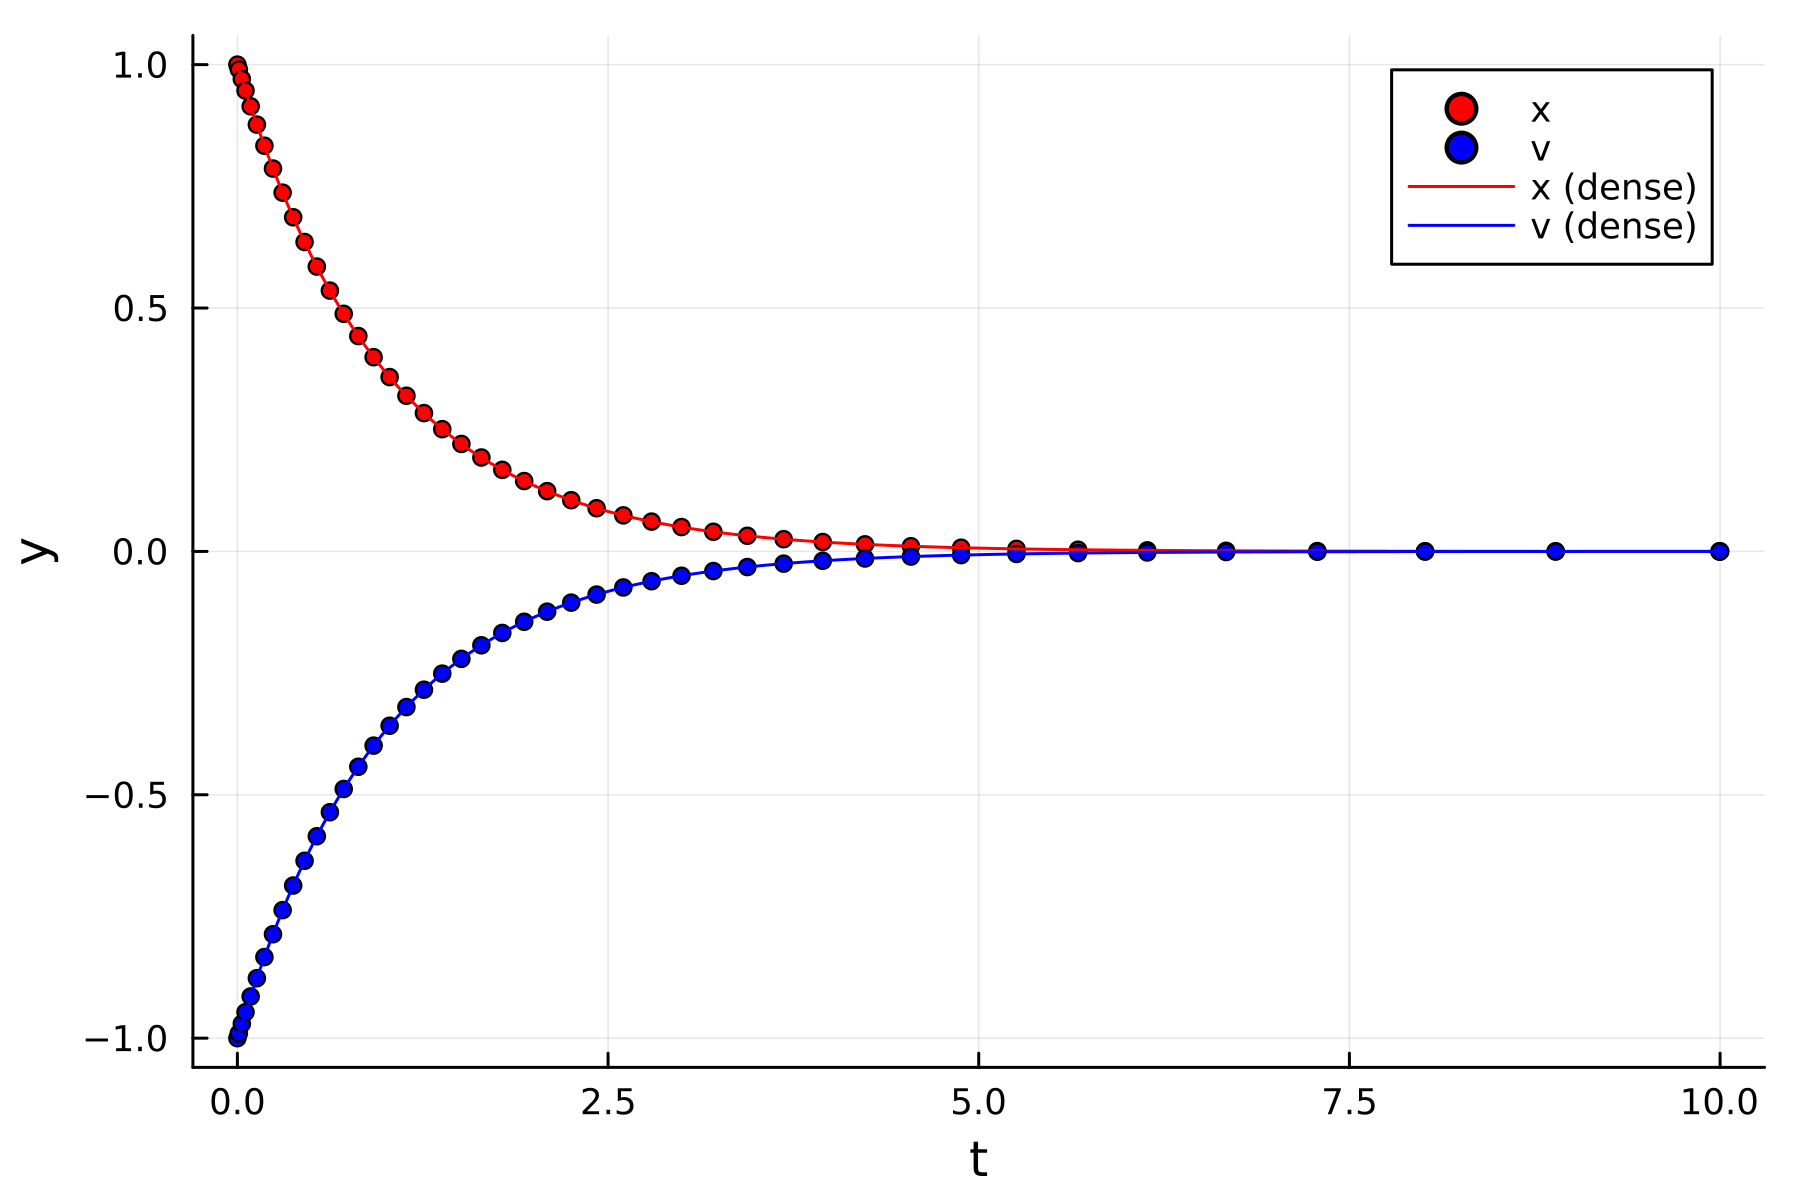
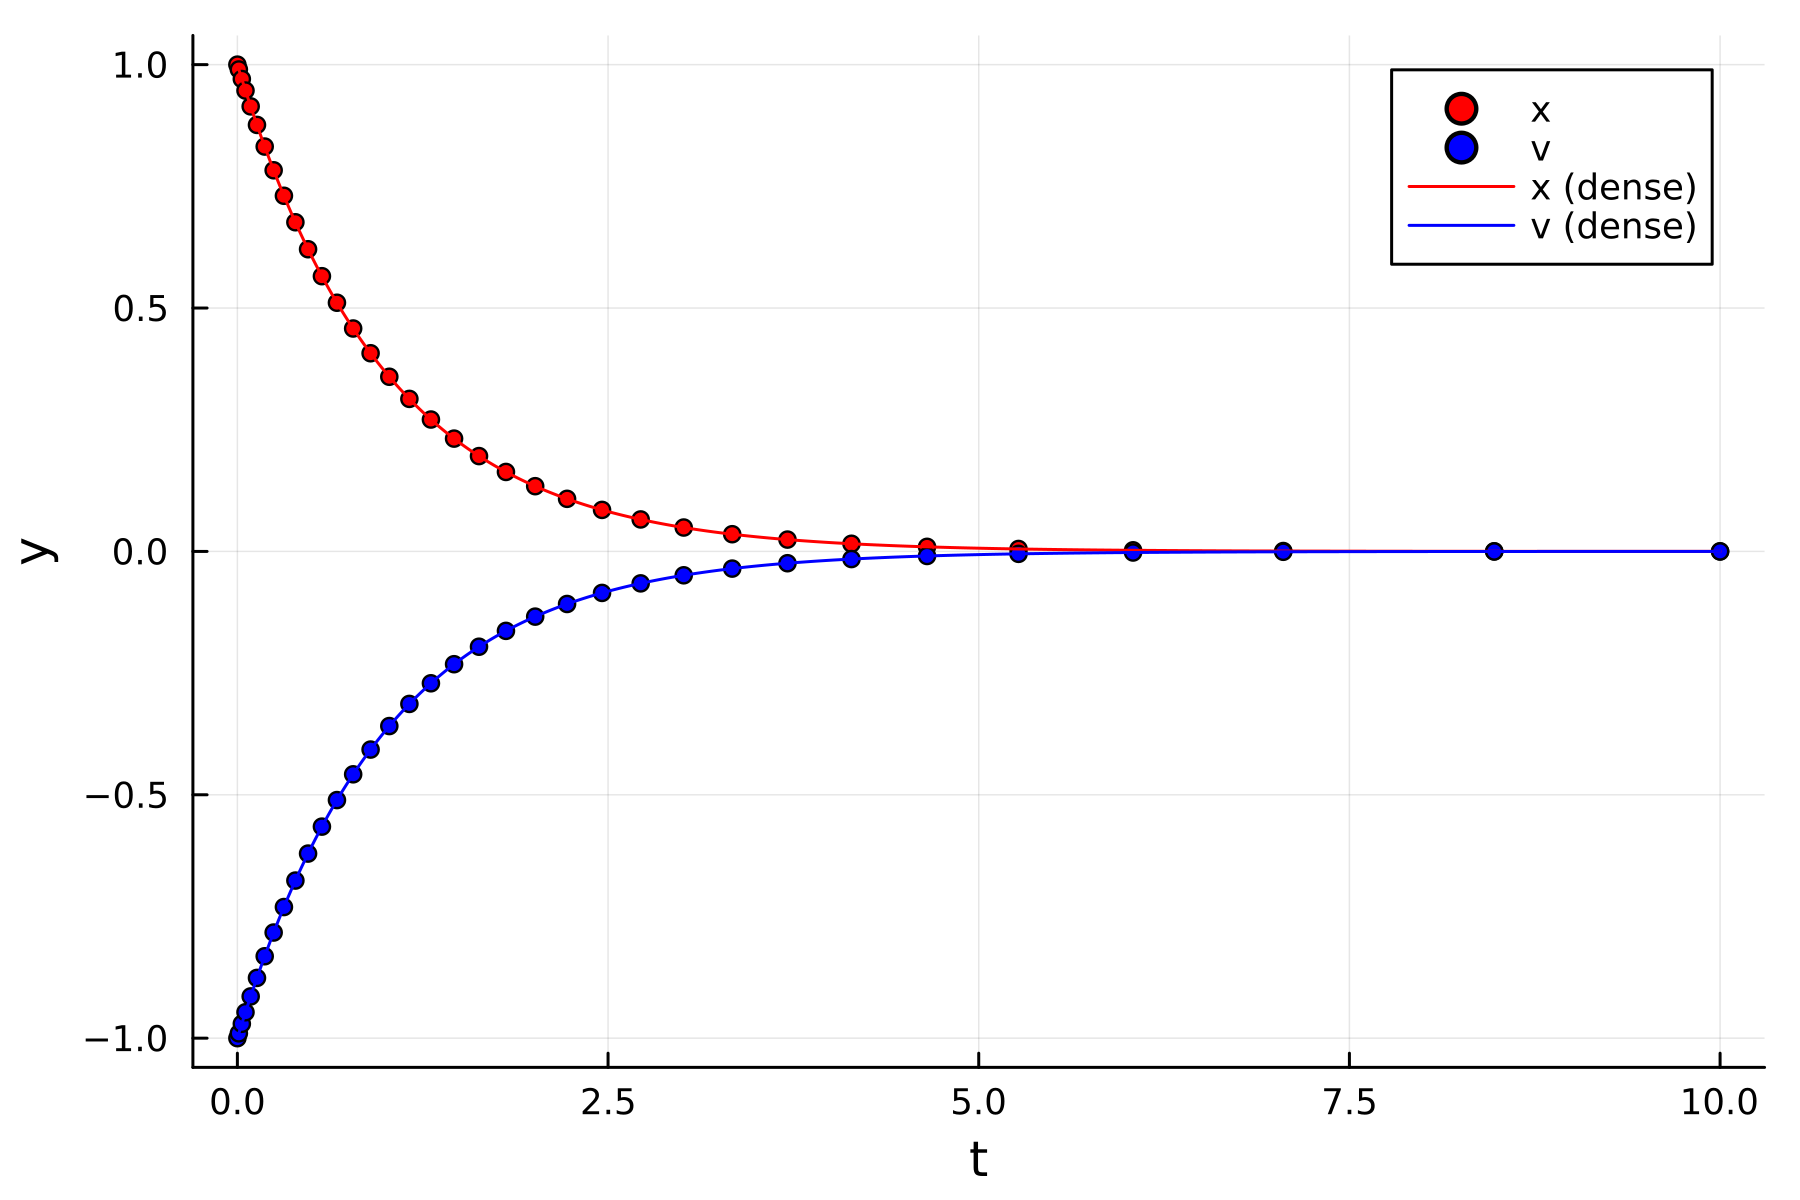
add cont coeffs for TRBDF2, make TRBDF21 method, update step doubling routine to handle continuous formula (lose 1 order accuracy), update docs

diff --git a/docs/src/solution/dense_output.md b/docs/src/solution/dense_output.md
@@ -1,20 +1,26 @@
 
 # Dense output
 
-The interpolation routines depend on raw solution data as input. You will need to adjust the default solver option `interpolator = NoInterpolator()` to solve and store the solution variables required by each routine.
+Interpolation can only be performed after solving the ODE, since it uses raw solution data as input.
+In addition to the state variables, the cubic Hermite and continuous formula routines use time derivative and intermediate stage data, respectively. You will need to change the solver option `interpolator` to solve and store the solution variables required by each routine.
+
+## No interpolation
+
+If you do not plan to interpolate the solution, use the default value `interpolator = NoInterpolator()`. The solver will only output the time series and state variables of the raw solution.
 
 ## Cubic Hermite
 
-All ODE methods can use cubic Hermite interpolation to generate dense output. Here, we continue with the overdamped oscillator example and set the solver option `interpolator = CubicHermite()`.
+All ODE methods can use cubic Hermite interpolation to generate dense output. Here, we continue with the overdamped oscillator example and set the solver option `interpolator = CubicHermite()`. The solver will output the time derivatives, which is stored in `sol.f`.
 
 ```julia
-options = SolverOptions(; method = TrapezoidRuleBDF2(), adaptive = Doubling(),
+options = SolverOptions(; method = TrapezoidRuleBDF21(),
+                          adaptive = Embedded(; alpha = 1e-3),
                           interpolator = CubicHermite(),);
 
 sol = evolve_ode(y0, t0, tf, dt0, dy_dt!, options, p);
 ```
 
-We also use the TRBDF2 method with step-doubling to produce non-uniform solution data that is third-order accurate:
+First, we plot the non-uniform solution data from the adaptive TRBDF2 method:
 
 ```julia
 t, y = get_solution(sol)
@@ -25,15 +31,33 @@ scatter(t, y; xlabel = "t", ylabel = "y", label = ["x" "v"], color = [:red :blue
 <img src="scatter_plot.png" width="600">
 ```
 
-The solution should contain state variable and time derivative data for the cubic Hermite routine. Now we can call `interpolate_solution` to interpolate the data uniformly (the keyword argument `dt_dense` changes the temporal spacing).
+Next, we call `interpolate_solution` to interpolate the data uniformly (the keyword argument `dt_dense` controls the temporal spacing).
 
 ```julia
 t_dense, y_dense = interpolate_solution(options, sol; dt_dense = 1e-4);
 plot!(t_dense, y_dense; label = ["x (dense)" "v (dense)"], color = [:red :blue])
 ```
 
+The interpolated solution is $C^1$ continuous and third-order accurate (i.e. it has a local error of $\mathcal{O}(\Delta t_n^4)$ between the raw time intervals $[t_n, t_{n+1}]$).
+
 ```@raw html
 <img src="hermite_plot.png" width="600">
 ```
 
 ## Continuous formula
+
+```julia
+options = SolverOptions(; method = TrapezoidRuleBDF21(),
+                          adaptive = Embedded(; alpha = 1e-3),
+                          interpolator = ContinuousFormula(),);
+
+sol = evolve_ode(y0, t0, tf, dt0, dy_dt!, options, p);
+
+t, y = get_solution(sol)
+scatter(t, y; xlabel = "t", ylabel = "y", label = ["x" "v"], color = [:red :blue], ms = 3)
+```
+
+```julia
+t_dense, y_dense = interpolate_solution(options, sol; dt_dense = 1e-4);
+plot!(t_dense, y_dense; label = ["x (dense)" "v (dense)"], color = [:red :blue])
+```
